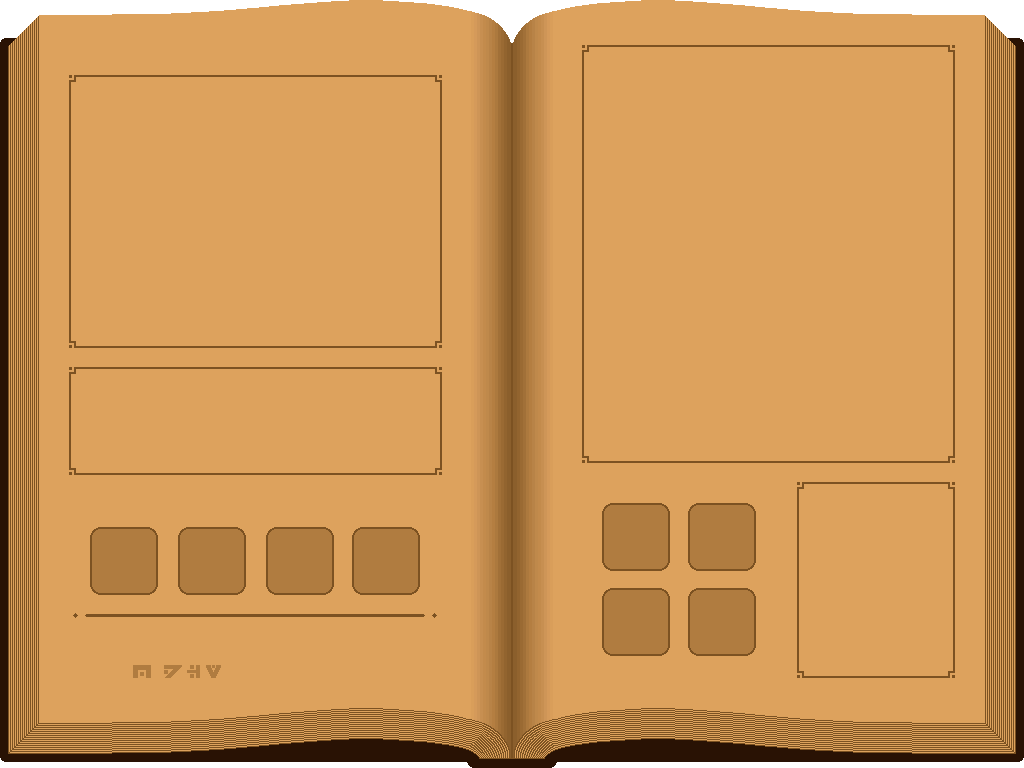
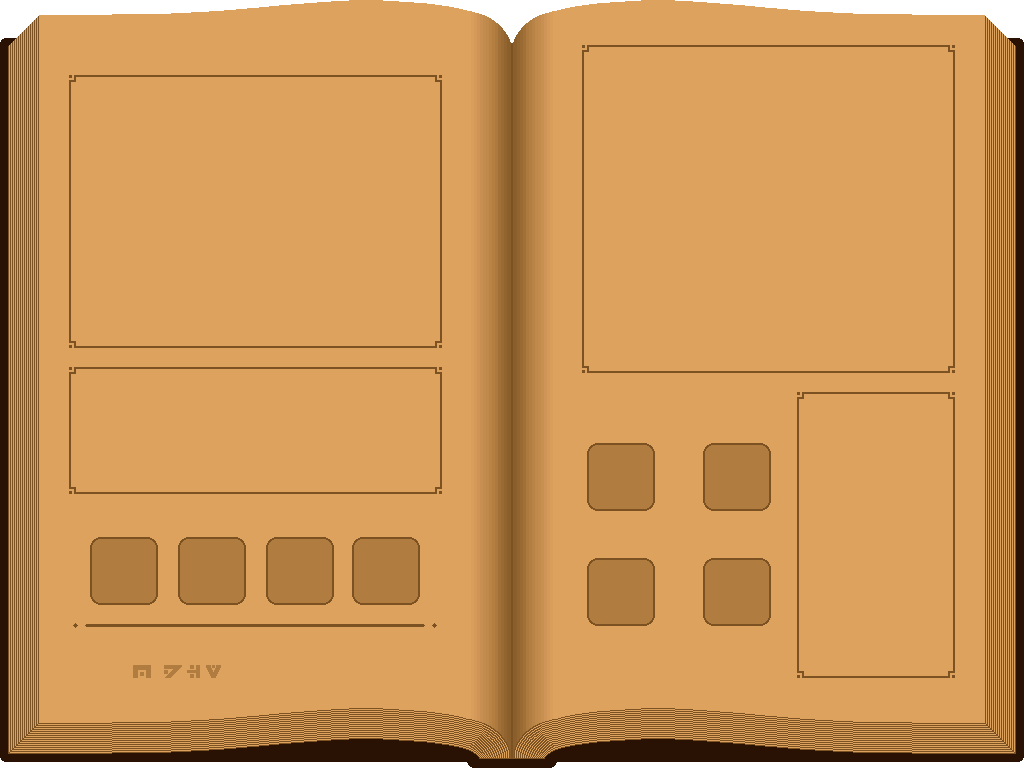
Added player stats to pause page, improved gear positioning on pause page

diff --git a/GameFile/SourceFiles/PlayGame.java b/GameFile/SourceFiles/PlayGame.java
@@ -58,7 +58,8 @@ public class PlayGame extends JPanel implements KeyListener{
     
     private JButton NeckBtn, RingBtn, TomeBtn, BootsBtn, Spell1Btn,
             Spell2Btn, Spell3Btn, Spell4Btn;
-    private JTextPane GearText, StatText, SpellText, FloorText;
+    private JTextPane GearText, LeftStatText, RightStatText,
+            SpellText, FloorText;
     private JLabel HoverLabel, MapLabel;
     
     private float OpaqueValue;
@@ -115,6 +116,15 @@ public class PlayGame extends JPanel implements KeyListener{
         this.OpaqueValue = 0f;
         this.OpaqueRaise = true;
         this.OpaqueLower = false;
+        
+        NeckBtn = null;
+        RingBtn = null;
+        TomeBtn = null;
+        BootsBtn = null;
+        Spell1Btn = null;
+        Spell2Btn = null;
+        Spell3Btn = null;
+        Spell4Btn = null;
         
         Game = new GameInstance(ScreenWidth, ScreenHeight);
         
@@ -187,7 +197,6 @@ public class PlayGame extends JPanel implements KeyListener{
         });
         */
         FloorText = new JTextPane();
-        FloorText = new JTextPane();
         FloorText.setBounds(69 + xOffSet, 35 + yOffSet, 374, 64);
         FloorText.setFont(new Font("Palatino Linotype", Font.PLAIN, 20));
         FloorText.setFocusable(false);
@@ -200,8 +209,54 @@ public class PlayGame extends JPanel implements KeyListener{
         FloorText.getStyledDocument().setParagraphAttributes(0, FloorText.getStyledDocument().getLength(), center, false);
         PauseMenu.add(FloorText);
         
+        LeftStatText = new JTextPane();
+        LeftStatText.setBounds(589 + xOffSet, 46 + yOffSet, 174, 320);
+        LeftStatText.setFont(new Font("Palatino Linotype", Font.PLAIN, 17));
+        LeftStatText.setFocusable(false);
+        LeftStatText.setOpaque(false);
+        LeftStatText.setText("");
+        LeftStatText.addStyle("Style", null);
+        StyleConstants.setForeground(style, Color.BLACK);
+        PauseMenu.add(LeftStatText);
+        
+        RightStatText = new JTextPane();
+        RightStatText.setBounds(773 + xOffSet, 46 + yOffSet, 169, 320);
+        RightStatText.setFont(new Font("Palatino Linotype", Font.PLAIN, 17));
+        RightStatText.setFocusable(false);
+        RightStatText.setOpaque(false);
+        RightStatText.setText("");
+        RightStatText.addStyle("Style", null);
+        StyleConstants.setForeground(style, Color.BLACK);
+        PauseMenu.add(RightStatText);
+        
+        JTextPane runeText = new JTextPane();
+        runeText.setBounds(69 + xOffSet, 625 + yOffSet, 374, 64);
+        runeText.setFont(new Font("Palatino Linotype", Font.PLAIN, 20));
+        runeText.setFocusable(false);
+        runeText.setOpaque(false);
+        runeText.addStyle("Title", null);
+        runeText.getStyledDocument().setParagraphAttributes(0, runeText.getStyledDocument().getLength(), center, false);
+        try {
+           runeText.getStyledDocument().insertString(
+                    runeText.getStyledDocument().getLength(), "Runes", style);
+        }catch(BadLocationException e){}
+        PauseMenu.add(runeText);
+        
+        JTextPane gearTitle = new JTextPane();
+        gearTitle.setBounds(587 + xOffSet, 394 + yOffSet, 186, 64);
+        gearTitle.setFont(new Font("Palatino Linotype", Font.PLAIN, 20));
+        gearTitle.setFocusable(false);
+        gearTitle.setOpaque(false);
+        gearTitle.addStyle("Title", null);
+        gearTitle.getStyledDocument().setParagraphAttributes(0, gearTitle.getStyledDocument().getLength(), center, false);
+        try {
+           gearTitle.getStyledDocument().insertString(
+                    gearTitle.getStyledDocument().getLength(), "Equipment", style);
+        }catch(BadLocationException e){}
+        PauseMenu.add(gearTitle);
+        
         GearText = new JTextPane();
-        GearText.setBounds(803 + xOffSet, 483 + yOffSet, 146, 184);
+        GearText.setBounds(803 + xOffSet, 393 + yOffSet, 146, 275);
         GearText.setFont(new Font("Palatino Linotype", Font.PLAIN, 16));
         GearText.setFocusable(false);
         GearText.setOpaque(false);
@@ -209,8 +264,21 @@ public class PlayGame extends JPanel implements KeyListener{
         GearText.addStyle("Style", null);
         PauseMenu.add(GearText);
         
+        JTextPane spellTitle = new JTextPane();
+        spellTitle.setBounds(69 + xOffSet, 494 + yOffSet, 374, 64);
+        spellTitle.setFont(new Font("Palatino Linotype", Font.PLAIN, 20));
+        spellTitle.setFocusable(false);
+        spellTitle.setOpaque(false);
+        spellTitle.addStyle("Title", null);
+        spellTitle.getStyledDocument().setParagraphAttributes(0, spellTitle.getStyledDocument().getLength(), center, false);
+        try {
+           spellTitle.getStyledDocument().insertString(
+                    spellTitle.getStyledDocument().getLength(), "Spells", style);
+        }catch(BadLocationException e){}
+        PauseMenu.add(spellTitle);
+        
         SpellText = new JTextPane();
-        SpellText.setBounds(75 + xOffSet, 368 + yOffSet, 361, 96);
+        SpellText.setBounds(75 + xOffSet, 368 + yOffSet, 361, 124);
         SpellText.setFont(new Font("Palatino Linotype", Font.PLAIN, 16));
         SpellText.setFocusable(false);
         SpellText.setOpaque(false);
@@ -249,6 +317,8 @@ public class PlayGame extends JPanel implements KeyListener{
         
         Style style = FloorText.getStyle("Title");
         
+        printPausePlayerStats();
+        
         FloorText.setText("");
         try {
             FloorText.getStyledDocument().insertString(
@@ -257,38 +327,98 @@ public class PlayGame extends JPanel implements KeyListener{
         
         if(Game.getPlayer().getNeck() != null)
         {
-            createGearButton(NeckBtn, Game.getPlayer().getNeck(), xOffSet + 602, yOffSet + 503);
+            if(NeckBtn != null)
+            {
+                PauseMenu.remove(NeckBtn);
+            }
+            NeckBtn = createGearButton(Game.getPlayer().getNeck(), xOffSet + 587, yOffSet + 443);
+            PauseMenu.add(NeckBtn);
+            PauseMenu.setComponentZOrder(NeckBtn, 1);
         }
         if(Game.getPlayer().getRing() != null)
         {
-            createGearButton(RingBtn, Game.getPlayer().getRing(), xOffSet + 602, yOffSet + 588);
+            if(RingBtn != null)
+            {
+                PauseMenu.remove(RingBtn);
+            }
+            RingBtn = createGearButton(Game.getPlayer().getRing(), xOffSet + 587, yOffSet + 558);
+            PauseMenu.add(RingBtn);
+            PauseMenu.setComponentZOrder(RingBtn, 1);
         }
         if(Game.getPlayer().getBoots() != null)
         {
-            createGearButton(BootsBtn, Game.getPlayer().getBoots(), xOffSet + 688, yOffSet + 588);
+            if(BootsBtn != null)
+            {
+                PauseMenu.remove(BootsBtn);
+            }
+            BootsBtn = createGearButton(Game.getPlayer().getBoots(), xOffSet + 703, yOffSet + 558);
+            PauseMenu.add(BootsBtn);
+            PauseMenu.setComponentZOrder(BootsBtn, 1);
         }
         if(Game.getPlayer().getTome() != null)
         {
-            createGearButton(TomeBtn, Game.getPlayer().getTome(), xOffSet + 688, yOffSet + 503);
+            if(TomeBtn != null)
+            {
+                PauseMenu.remove(TomeBtn);
+            }
+            TomeBtn = createGearButton(Game.getPlayer().getTome(), xOffSet + 703, yOffSet + 443);
+            PauseMenu.add(TomeBtn);
+            PauseMenu.setComponentZOrder(TomeBtn, 1);
         }
         
         if(Game.getPlayer().getSpell(0) != null)
         {
-            createSpellButton(Spell1Btn, Game.getPlayer().getSpell(0), xOffSet + 90, yOffSet + 527);
+            if(Spell1Btn == null)
+            {
+                Spell1Btn = createSpellButton(0, xOffSet + 90, yOffSet + 537);
+                PauseMenu.add(Spell1Btn);
+                PauseMenu.setComponentZOrder(Spell1Btn, 1);
+            }
+            else
+            {
+                Spell1Btn.setIcon(new ImageIcon(Game.getPlayer().getSpell(0).getIcon()));
+            }
         }
         if(Game.getPlayer().getSpell(1) != null)
         {
-            createSpellButton(Spell1Btn, Game.getPlayer().getSpell(1), xOffSet + 178, yOffSet + 527);
+            if(Spell2Btn == null)
+            {
+                Spell2Btn = createSpellButton(1, xOffSet + 178, yOffSet + 537);
+                PauseMenu.add(Spell2Btn);
+                PauseMenu.setComponentZOrder(Spell2Btn, 1);
+            }
+            else
+            {
+                Spell2Btn.setIcon(new ImageIcon(Game.getPlayer().getSpell(1).getIcon()));
+            }
         }
         if(Game.getPlayer().getSpell(2) != null)
         {
-            createSpellButton(Spell1Btn, Game.getPlayer().getSpell(2), xOffSet + 266, yOffSet + 527);
+            if(Spell3Btn == null)
+            {
+                Spell3Btn = createSpellButton(2, xOffSet + 266, yOffSet + 537);
+                PauseMenu.add(Spell3Btn);
+                PauseMenu.setComponentZOrder(Spell3Btn, 1);
+            }
+            else
+            {
+                Spell3Btn.setIcon(new ImageIcon(Game.getPlayer().getSpell(2).getIcon()));
+            }
         }
         if(Game.getPlayer().getSpell(3) != null)
         {
-            createSpellButton(Spell1Btn, Game.getPlayer().getSpell(3), xOffSet + 352, yOffSet + 527);
+            if(Spell4Btn == null)
+            {
+                Spell4Btn = createSpellButton(3, xOffSet + 352, yOffSet + 537);
+                PauseMenu.add(Spell4Btn);
+                PauseMenu.setComponentZOrder(Spell4Btn, 1);
+            }
+            else
+            {
+                Spell4Btn.setIcon(new ImageIcon(Game.getPlayer().getSpell(3).getIcon()));
+            }
         }
-            
+        
         this.PauseMenu.setVisible(true);
         this.PauseMenu.setFocusable(true);
     }
@@ -394,9 +524,9 @@ public class PlayGame extends JPanel implements KeyListener{
         gtemp.dispose();
     }
     
-    private void createGearButton(JButton btn, Gear gear, int x, int y)
+    private JButton createGearButton(Gear gear, int x, int y)
     {
-        btn = new JButton(new ImageIcon(gear.getSprite()));
+        JButton btn = new JButton(new ImageIcon(gear.getSprite()));
         btn.setBorder(BorderFactory.createEmptyBorder());
         btn.setContentAreaFilled(false);
         btn.setBounds(x, y, 67, 67);
@@ -414,13 +544,12 @@ public class PlayGame extends JPanel implements KeyListener{
                 HoverLabel.setVisible(false);
             }
         });
-        PauseMenu.add(btn);
-        PauseMenu.setComponentZOrder(btn, 1);
+        return btn;
     }
     
-    private void createSpellButton(JButton btn, Spell spell, int x, int y)
+    private JButton createSpellButton(int spellNumber, int x, int y)
     {
-        btn = new JButton(new ImageIcon(spell.getIcon()));
+        JButton btn = new JButton(new ImageIcon(Game.getPlayer().getSpell(spellNumber).getIcon()));
         btn.setBorder(BorderFactory.createEmptyBorder());
         btn.setContentAreaFilled(false);
         btn.setBounds(x, y, 68, 68);
@@ -430,7 +559,7 @@ public class PlayGame extends JPanel implements KeyListener{
                 HoverLabel.setBounds(x - 2, y - 2, 73, 73);
                 HoverLabel.setVisible(true);
                 PauseMenu.setComponentZOrder(HoverLabel, 2);
-                printPauseSpellText(spell);
+                printPauseSpellText(Game.getPlayer().getSpell(spellNumber));
             }
 
             public void mouseExited(MouseEvent evt) {
@@ -438,8 +567,56 @@ public class PlayGame extends JPanel implements KeyListener{
                 HoverLabel.setVisible(false);
             }
         });
-        PauseMenu.add(btn);
-        PauseMenu.setComponentZOrder(btn, 1);
+
+        return btn;
+    }
+    
+    private void printPausePlayerStats()
+    {
+        int xOffSet = (ScreenWidth - PauseMenuImg.getWidth(null)) / 2;
+        int yOffSet = (ScreenHeight - PauseMenuImg.getHeight(null)) / 2;
+        
+        LeftStatText.setText("");
+        RightStatText.setText("");
+        
+        Style style = LeftStatText.getStyle("Style");
+        StyleConstants.setForeground(style, Color.BLACK);
+        
+        String statInfo =  "";
+        
+        statInfo += "Level " + Game.getPlayer().getLevel() + "\n";
+        statInfo += "Health: " + Game.getPlayer().getCurrentHealth() + "/" + Game.getPlayer().getMaxHealth() + "\n";
+        statInfo += "Experience: " + Game.getPlayer().getExperience() + "/" + Game.getPlayer().getNextLevel() + "\n";
+        statInfo += "Skill points: " + Game.getPlayer().getSkillPoints() + "\n";
+        statInfo += "Gold: " + Game.getGold() + "\n\n";
+        statInfo += "Vitality: " + Game.getPlayer().getVitality() + "\n";
+        statInfo += "+_ Bonus Health" + "\n\n";
+        statInfo += "Intellect: " + Game.getPlayer().getIntellect() + "\n";
+        statInfo += "+_% Spell Damage\n\n";
+        statInfo += "MoveSpeed: " + Game.getPlayer().getMoveSpeed();
+        try {
+            LeftStatText.getStyledDocument().insertString(
+                    LeftStatText.getStyledDocument().getLength(), statInfo, style);
+        }catch(BadLocationException e){}
+        
+        style = RightStatText.getStyle("Style");
+        StyleConstants.setForeground(style, Color.BLACK);
+        
+        statInfo =  "";
+        statInfo += "Flame: " + Game.getPlayer().getFlame()  + "\n";
+        statInfo += "+_% Fire Damage" + "\n";
+        statInfo += "_% Burn Chance" + "\n";
+        statInfo += "_ Burn Damage" + "\n\n";
+        statInfo += "Frost: " + Game.getPlayer().getFrost()  + "\n";
+        statInfo += "+_% Ice Damage" + "\n";
+        statInfo += "_% Chill Chance" + "\n\n";
+        statInfo += "Void: " + Game.getPlayer().getVoid()  + "\n";
+        statInfo += "+_% Void Damage" + "\n";
+        
+        try {
+            RightStatText.getStyledDocument().insertString(
+                    RightStatText.getStyledDocument().getLength(), statInfo, style);
+        }catch(BadLocationException e){}
     }
     
     private void printPauseSpellText(Spell spell)

diff --git a/GameFile/SourceFiles/GameObjects/MovingObjects/Player/WizardPlayer.java b/GameFile/SourceFiles/GameObjects/MovingObjects/Player/WizardPlayer.java
@@ -285,6 +285,36 @@ public class WizardPlayer extends MovingObject implements Observer{
             return false;
     }
     
+    public int getVitality()
+    {
+        return this.Vitality;
+    }
+    
+    public int getIntellect()
+    {
+        return this.Intellect;
+    }
+    
+    public int getFlame()
+    {
+        return this.Flame;
+    }
+    
+    public int getFrost()
+    {
+        return this.Frost;
+    }
+    
+    public int getVoid()
+    {
+        return this.Dark;
+    }
+    
+    public int getMoveSpeed()
+    {
+        return this.BaseSpeed;
+    }
+    
     public int getBurnTime()
     {
         return this.BurnTime;

diff --git a/GameFile/SourceFiles/GameInstance.java b/GameFile/SourceFiles/GameInstance.java
@@ -711,6 +711,11 @@ public class GameInstance {
         return this.Player;
     }
     
+    public int getGold()
+    {
+        return this.Money;
+    }
+    
     public int getGameWith()
     {
         return this.GameWidth;
